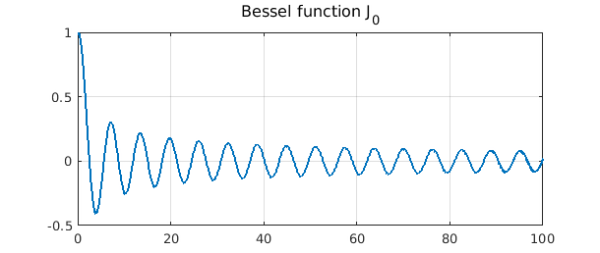
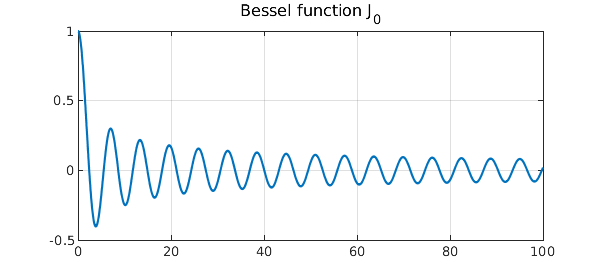
republish for better graphics

Changed region(s): [[0.06, 0.0, 0.93, 0.9684]]

diff --git a/index.html b/index.html
@@ -269,5 +269,5 @@ plot(minx(1),minx(2),'.w')
     <script type="text/javascript" src="/js/config.js"></script>
     <script type="text/javascript" src="/js/jquery.flexslider-min.js"></script>
   </body>
-<!-- Compiled on Thursday, 15 April 2021 at 11:09. -->
+<!-- Compiled on Thursday, 15 April 2021 at 11:12. -->
 </html>

diff --git a/examples/roots/BesselRoots.html b/examples/roots/BesselRoots.html
@@ -92,7 +92,7 @@ toc</pre>
 <pre class="mcode-output">Number of roots between 1000000 and 1001000:
 n =
    318
-Elapsed time is 0.081539 seconds.
+Elapsed time is 0.074132 seconds.
 </pre></div>
         </div>
     </div>

diff --git a/examples/roots/img/BesselRoots.html b/examples/roots/img/BesselRoots.html
@@ -32,5 +32,5 @@ n = rootsab(1000000,1001000)
 toc</pre><pre class="mcode-output">Number of roots between 1000000 and 1001000:
 n =
    318
-Elapsed time is 0.081539 seconds.
+Elapsed time is 0.074132 seconds.
 </pre>
